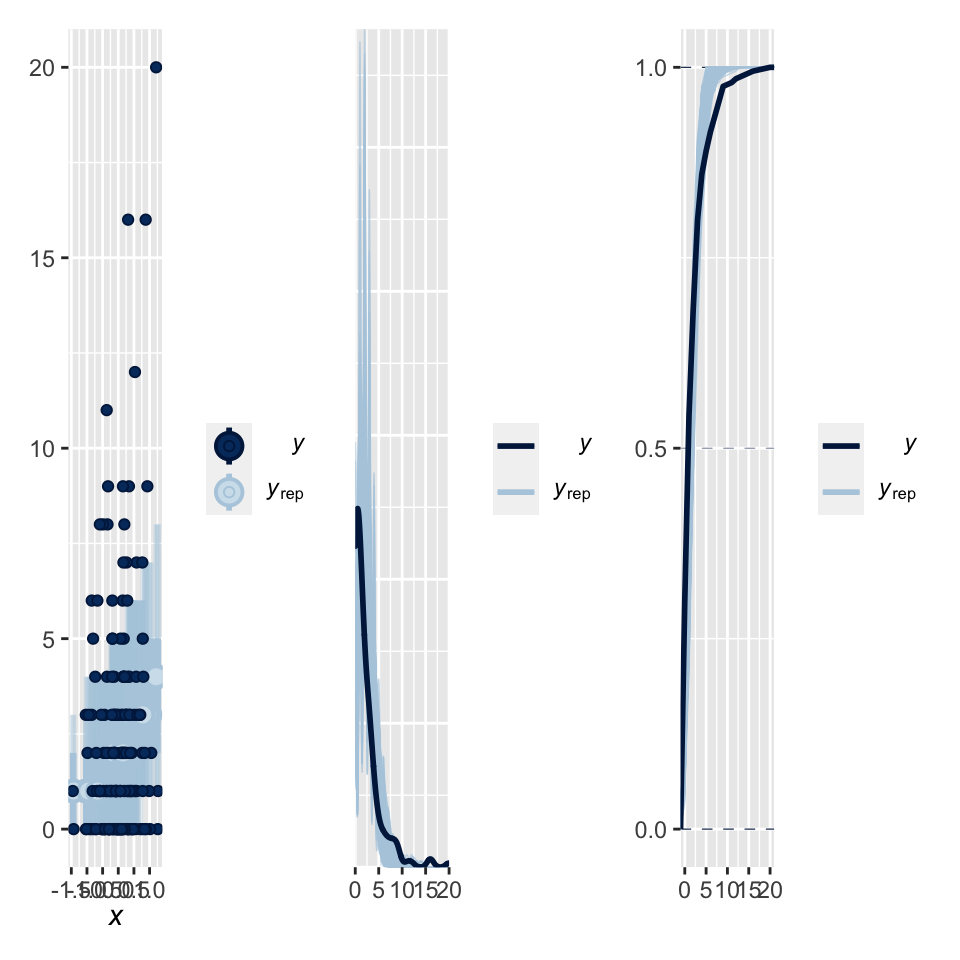
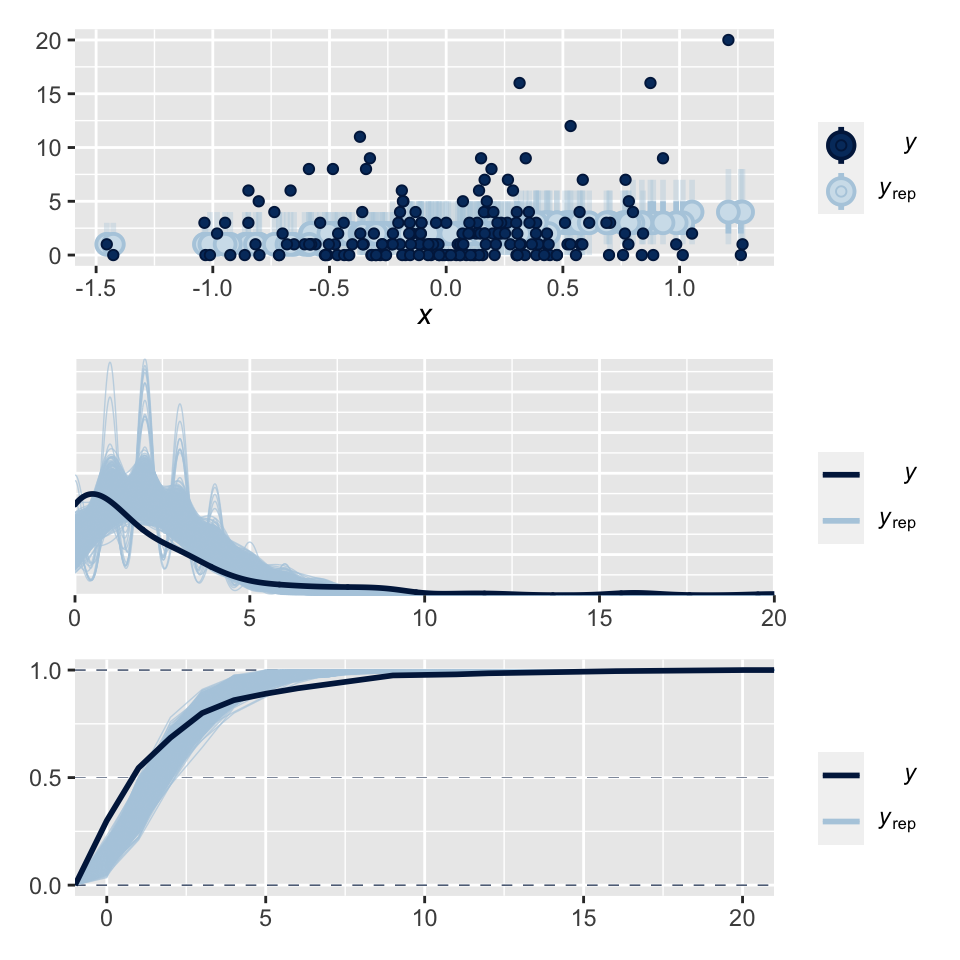
small edits and revision to figures

diff --git a/_book/day-5.html b/_book/day-5.html
@@ -494,7 +494,7 @@ code span.wa { color: #60a0b0; font-weight: bold; font-style: italic; } /* Warni
 <a class="sourceLine" id="cb110-20" data-line-number="20">) <span class="op">%&gt;%</span></a>
 <a class="sourceLine" id="cb110-21" data-line-number="21"><span class="st">    </span><span class="kw">add_surface</span>()</a></code></pre></div>
 <div id="htmlwidget-4a0c7c92b1066cbf0cb0" style="width:672px;height:480px;" class="plotly html-widget"></div>
-<script type="application/json" data-for="htmlwidget-4a0c7c92b1066cbf0cb0">{"x":{"visdat":{"15018757c7d4":["function () ","plotlyVisDat"]},"cur_data":"15018757c7d4","attrs":{"15018757c7d4":{"z":{},"alpha_stroke":1,"sizes":[10,100],"spans":[1,20],"type":"surface","inherit":true}},"layout":{"margin":{"b":40,"l":60,"t":25,"r":10},"scene":{"zaxis":{"title":"matrix(dat$y, sqrt(n), sqrt(n))"}},"hovermode":"closest","showlegend":false,"legend":{"yanchor":"top","y":0.5}},"source":"A","config":{"showSendToCloud":false},"data":[{"colorbar":{"title":"matrix(dat$y, sqrt(n), sqrt(n))","ticklen":2,"len":0.5,"lenmode":"fraction","y":1,"yanchor":"top"},"colorscale":[["0","rgba(68,1,84,1)"],["0.0416666666666667","rgba(70,19,97,1)"],["0.0833333333333334","rgba(72,32,111,1)"],["0.125","rgba(71,45,122,1)"],["0.166666666666667","rgba(68,58,128,1)"],["0.208333333333333","rgba(64,70,135,1)"],["0.25","rgba(60,82,138,1)"],["0.291666666666667","rgba(56,93,140,1)"],["0.333333333333333","rgba(49,104,142,1)"],["0.375","rgba(46,114,142,1)"],["0.416666666666667","rgba(42,123,142,1)"],["0.458333333333333","rgba(38,133,141,1)"],["0.5","rgba(37,144,140,1)"],["0.541666666666667","rgba(33,154,138,1)"],["0.583333333333333","rgba(39,164,133,1)"],["0.625","rgba(47,174,127,1)"],["0.666666666666667","rgba(53,183,121,1)"],["0.708333333333333","rgba(79,191,110,1)"],["0.75","rgba(98,199,98,1)"],["0.791666666666667","rgba(119,207,85,1)"],["0.833333333333333","rgba(147,214,70,1)"],["0.875","rgba(172,220,52,1)"],["0.916666666666667","rgba(199,225,42,1)"],["0.958333333333333","rgba(226,228,40,1)"],["1","rgba(253,231,37,1)"]],"showscale":true,"z":[[0.501416864425549,0.435895701528689,0.628313783883861,0.601419906989648,0.527125611387571,0.112301284546706,0.039417800703428,-0.141329188503778,0.144822963182104,0.0991911967806607,-0.0327578176913727,-0.359899360115732,-0.0408256360960041,-0.667323758250641,-0.734767494516772,-0.380230749275211,-0.956544347469656,-0.855788524202116,-1.18955711755157,-0.988557415617135],[0.133778899740329,0.194377309144107,0.508451864481736,0.468950123280326,0.762434611776857,0.616473002882308,-0.166314207146959,0.149223369209975,0.268193003851802,0.0315000667577065,-0.0533484237772597,-0.19039382697309,-0.146638835756711,-0.795102181579039,-0.886669033769243,-1.18143537603294,-1.26815939744814,-1.10661959451608,-1.48579734975519,-1.31857874205859],[-0.202377154430921,-0.192675900911298,0.234612562697054,0.45771047856723,0.0625218103851034,0.440663425848812,0.235146805818884,0.183555515939667,0.0908309117312426,0.0879240398447369,0.186087729174771,-0.0250075867171818,-0.217924214818889,-0.457269247535323,-0.649606552605628,-0.969894210537575,-1.09306384540198,-1.14195141749345,-1.11757176732986,-1.05679133535215],[-0.471002907403495,-0.691349967145548,-0.697097530718835,0.112514848821712,0.139482757765885,0.0554543145384691,-0.198868264113209,0.125388220614835,-0.39383576177551,-0.197882386293515,0.561369153542967,-0.11250862638185,-0.40164107550173,-0.517938520880583,-0.823940013294348,-1.12091451932549,-1.02713165667055,-0.826631182887981,-0.841910409674507,-1.54984932323355],[-0.763950706984163,-1.225820774775,-0.545750659141781,-0.0917669725384054,-0.0616656332558033,-0.541487481939438,-0.608113424737923,-0.0121532576720518,-0.379937387284547,-0.275117152289958,-0.156529763438439,-0.117377148425886,-0.367759655341919,-0.536254020195987,-0.379290338951309,-0.796057672955533,-0.82201194318895,-0.88774178556814,-0.657027417097038,-1.01763167370178],[-0.79811521718663,-0.143439712771955,-0.294196645686776,-0.545122719925802,-0.206681144490986,-0.686096958449867,-0.824834853392159,-0.818662210568308,-0.12449497561367,-0.890726570737791,-0.392063170646249,-0.264246486881905,-0.183924981912508,-0.501442892468294,-0.367200108508801,-0.355649030362057,-0.698058826414773,-0.934897260395489,-0.412273103910142,-0.211500149134743],[-0.501144827299452,-0.143551781401898,-0.177619118282621,-0.186880309210365,-0.259239990744856,-0.397856795537658,-0.400937245108771,-0.445657772040836,-0.181109953998169,-0.12452686256425,0.392666709934574,0.138564688125174,-0.109177350010491,-0.318463690490814,-0.368845333097763,-0.411354194748707,-0.605001484861866,-0.692764933653365,-0.595848298441895,-0.0303647377233202],[-0.632208960609581,-0.338493379673163,-0.111209179110812,-0.325964764541662,0.0363999179761221,-0.504947202680523,-0.369206887877914,-0.376604729687348,-0.446566844277522,-0.351276226856319,0.0273044333679807,0.0198330786641969,-0.100470137764927,-0.205878299054973,-0.681066904160156,-0.641472475602323,-0.689936117354089,-1.0016835568969,-0.509118072164383,-0.291312059782943],[-0.960295111051469,-0.896999687316198,-0.756044427374541,-0.443501213283359,-0.579799679718357,-0.511577978672959,-0.647880097372721,-0.330775190075035,-0.363175684963475,-0.416107582815023,-0.370302451960173,-0.150888361166762,-0.141344921229398,-0.721816588992475,-0.315688777006519,-0.672449450941569,-1.37604445689556,-1.29722104268378,-0.648862131841717,-0.437896752790126],[-1.32853456827554,-1.03134776389011,-1.0511653246759,-0.80068413147394,-1.10592701377484,-0.632889322113555,-0.390657532748361,0.275274742718667,-0.132003430901936,-0.512618815794119,-0.557044820376563,-0.600283009764232,-0.669720669818676,-0.882781786132061,-0.562397377026402,-0.502232635062457,-1.07526718687346,-1.00949350230528,-1.03923542220943,-0.527572930514201],[-1.02824968846789,-1.21211941860079,-1.19477753816763,-0.777501602713323,-0.817118240190682,-1.16048353544471,-0.789509424911934,-0.521086134680167,-0.500510017753925,-0.484611841944311,-0.445948921762354,-0.773212058114287,-0.586645127199805,-0.562483067746857,-0.771815371188746,-0.888539846642034,-1.01594082678713,-1.17387828107106,-1.26659529611471,-0.493458322378053],[-0.668950991190452,-1.28062702165923,-1.19348268378045,-0.88373895377825,-1.47345431142704,-1.29789615566948,-1.04617601099074,-0.811113656873884,-0.551907299935932,0.0322352967349497,-0.482470337352678,-0.179288748874953,-0.800900309839142,-0.990176300299333,-0.708295340567449,-0.922964831631941,-0.963647317334975,-1.02058078353483,-0.889074830071327,-0.61241076090348],[-1.04875228974718,-1.22163243345006,-1.19228900219844,-1.02546075751928,-1.53593753221427,-1.30630195552371,-1.33443105881039,-0.845275822614931,-0.647392861466749,-0.657562283889751,-0.311207200449246,-1.14560367473708,-1.08844287540448,-0.594597278070913,-1.01264148438757,-1.2018017373756,-1.17095063523869,-0.854325386810605,-0.637094473704461,-0.367097395181111],[-1.16118107448635,-1.43029743729191,-1.39859524981186,-1.58455303629277,-1.72544972140306,-1.06716199955956,-1.04015455732812,-0.904607940201557,-0.57864618830925,-0.433334349585258,-0.445169055347513,-1.07402710472363,-0.913381815905744,-1.2876175194082,-1.3230717746779,-1.57155676517318,-1.62274354401459,-0.664026511275845,-0.574724476510864,-0.845404050452273],[-0.821393372344756,-1.59703105189841,-1.91364637393686,-1.90720496755767,-1.84137158222431,-1.34448750489332,-1.23801719175093,-1.04915078325095,-0.777364839194881,-0.546475125996158,-0.318260039084443,-1.13500663037331,-1.27021907222464,-0.875548762955606,-0.76667935081689,-1.0877858170205,-0.988748806906799,-0.514966304348554,-0.804384069364708,-1.04578239022407],[-1.18679344863807,-1.42296541615495,-1.94588121803796,-2.12258776771557,-1.57160160397041,-1.51095900917986,-1.1533752005967,-1.59113030125909,-0.978637585181168,-0.272756938036958,-0.638213237690014,-0.967868498459082,-1.53116904164353,-1.54664728262368,-1.61140859581914,-1.30330199374125,-0.804270680942275,-0.575515866730708,-0.403735417038001,-0.879008908937024],[-1.27927438632742,-1.46501725061535,-1.69090334919374,-1.71303198822079,-1.32546330292342,-1.44247285690439,-1.30128175493719,-1.63203929610833,-1.06270083810043,-0.259187718365234,-0.762416888851196,-1.42682220170483,-1.38104865747077,-1.48109778833097,-1.56985773473161,-1.513167168223,-1.33109345060029,-0.951184320369449,-0.720484956966239,-0.918482971506119],[-0.921397847503572,-1.23435916825674,-1.12527262049609,-1.07823449844754,-1.17253179039786,-1.24514543874772,-1.39962875113255,-1.38136673664197,-1.66858895017746,-0.759242459417572,-0.807262768908282,-1.41495110231753,-1.3225595049599,-1.46508361344786,-1.24742401134545,-0.935504011595734,-1.32232841506925,-1.2047192415354,-0.987958925887501,-1.18211288041872],[-0.991143633524429,-0.302988956813851,-0.633087223888305,-0.922043368186715,-1.04227012820005,-1.0279698919459,-1.62741424818933,-1.69208435953631,-1.32596122557027,-1.22851009804543,-1.1548875159301,-1.07634948308402,-1.54518636449074,-1.17807894387443,-1.13519038758066,-1.03877887696317,-1.07704468547692,-0.839962496660722,-1.06330411232877,-1.24001406938555],[-0.987711248523154,-0.865583576403856,-0.547850109228499,-1.10813251236338,-1.00383211770862,-0.987109562801653,-1.65686895584208,-1.66565673634245,-1.53867289629175,-1.04130115317855,-1.2448859290014,-1.17546124939656,-1.0921222197595,-1.23521862046823,-1.15046177421782,-1.28755337574018,-1.2254401664102,-1.30021296372609,-1.222278218157,-0.930559695187917]],"type":"surface","frame":null}],"highlight":{"on":"plotly_click","persistent":false,"dynamic":false,"selectize":false,"opacityDim":0.2,"selected":{"opacity":1},"debounce":0},"shinyEvents":["plotly_hover","plotly_click","plotly_selected","plotly_relayout","plotly_brushed","plotly_brushing","plotly_clickannotation","plotly_doubleclick","plotly_deselect","plotly_afterplot","plotly_sunburstclick"],"base_url":"https://plot.ly"},"evals":[],"jsHooks":[]}</script>
+<script type="application/json" data-for="htmlwidget-4a0c7c92b1066cbf0cb0">{"x":{"visdat":{"152be284f43f0":["function () ","plotlyVisDat"]},"cur_data":"152be284f43f0","attrs":{"152be284f43f0":{"z":{},"alpha_stroke":1,"sizes":[10,100],"spans":[1,20],"type":"surface","inherit":true}},"layout":{"margin":{"b":40,"l":60,"t":25,"r":10},"scene":{"zaxis":{"title":"matrix(dat$y, sqrt(n), sqrt(n))"}},"hovermode":"closest","showlegend":false,"legend":{"yanchor":"top","y":0.5}},"source":"A","config":{"showSendToCloud":false},"data":[{"colorbar":{"title":"matrix(dat$y, sqrt(n), sqrt(n))","ticklen":2,"len":0.5,"lenmode":"fraction","y":1,"yanchor":"top"},"colorscale":[["0","rgba(68,1,84,1)"],["0.0416666666666667","rgba(70,19,97,1)"],["0.0833333333333334","rgba(72,32,111,1)"],["0.125","rgba(71,45,122,1)"],["0.166666666666667","rgba(68,58,128,1)"],["0.208333333333333","rgba(64,70,135,1)"],["0.25","rgba(60,82,138,1)"],["0.291666666666667","rgba(56,93,140,1)"],["0.333333333333333","rgba(49,104,142,1)"],["0.375","rgba(46,114,142,1)"],["0.416666666666667","rgba(42,123,142,1)"],["0.458333333333333","rgba(38,133,141,1)"],["0.5","rgba(37,144,140,1)"],["0.541666666666667","rgba(33,154,138,1)"],["0.583333333333333","rgba(39,164,133,1)"],["0.625","rgba(47,174,127,1)"],["0.666666666666667","rgba(53,183,121,1)"],["0.708333333333333","rgba(79,191,110,1)"],["0.75","rgba(98,199,98,1)"],["0.791666666666667","rgba(119,207,85,1)"],["0.833333333333333","rgba(147,214,70,1)"],["0.875","rgba(172,220,52,1)"],["0.916666666666667","rgba(199,225,42,1)"],["0.958333333333333","rgba(226,228,40,1)"],["1","rgba(253,231,37,1)"]],"showscale":true,"z":[[0.501416864425549,0.435895701528689,0.628313783883861,0.601419906989648,0.527125611387571,0.112301284546706,0.039417800703428,-0.141329188503778,0.144822963182104,0.0991911967806607,-0.0327578176913727,-0.359899360115732,-0.0408256360960041,-0.667323758250641,-0.734767494516772,-0.380230749275211,-0.956544347469656,-0.855788524202116,-1.18955711755157,-0.988557415617135],[0.133778899740329,0.194377309144107,0.508451864481736,0.468950123280326,0.762434611776857,0.616473002882308,-0.166314207146959,0.149223369209975,0.268193003851802,0.0315000667577065,-0.0533484237772597,-0.19039382697309,-0.146638835756711,-0.795102181579039,-0.886669033769243,-1.18143537603294,-1.26815939744814,-1.10661959451608,-1.48579734975519,-1.31857874205859],[-0.202377154430921,-0.192675900911298,0.234612562697054,0.45771047856723,0.0625218103851034,0.440663425848812,0.235146805818884,0.183555515939667,0.0908309117312426,0.0879240398447369,0.186087729174771,-0.0250075867171818,-0.217924214818889,-0.457269247535323,-0.649606552605628,-0.969894210537575,-1.09306384540198,-1.14195141749345,-1.11757176732986,-1.05679133535215],[-0.471002907403495,-0.691349967145548,-0.697097530718835,0.112514848821712,0.139482757765885,0.0554543145384691,-0.198868264113209,0.125388220614835,-0.39383576177551,-0.197882386293515,0.561369153542967,-0.11250862638185,-0.40164107550173,-0.517938520880583,-0.823940013294348,-1.12091451932549,-1.02713165667055,-0.826631182887981,-0.841910409674507,-1.54984932323355],[-0.763950706984163,-1.225820774775,-0.545750659141781,-0.0917669725384054,-0.0616656332558033,-0.541487481939438,-0.608113424737923,-0.0121532576720518,-0.379937387284547,-0.275117152289958,-0.156529763438439,-0.117377148425886,-0.367759655341919,-0.536254020195987,-0.379290338951309,-0.796057672955533,-0.82201194318895,-0.88774178556814,-0.657027417097038,-1.01763167370178],[-0.79811521718663,-0.143439712771955,-0.294196645686776,-0.545122719925802,-0.206681144490986,-0.686096958449867,-0.824834853392159,-0.818662210568308,-0.12449497561367,-0.890726570737791,-0.392063170646249,-0.264246486881905,-0.183924981912508,-0.501442892468294,-0.367200108508801,-0.355649030362057,-0.698058826414773,-0.934897260395489,-0.412273103910142,-0.211500149134743],[-0.501144827299452,-0.143551781401898,-0.177619118282621,-0.186880309210365,-0.259239990744856,-0.397856795537658,-0.400937245108771,-0.445657772040836,-0.181109953998169,-0.12452686256425,0.392666709934574,0.138564688125174,-0.109177350010491,-0.318463690490814,-0.368845333097763,-0.411354194748707,-0.605001484861866,-0.692764933653365,-0.595848298441895,-0.0303647377233202],[-0.632208960609581,-0.338493379673163,-0.111209179110812,-0.325964764541662,0.0363999179761221,-0.504947202680523,-0.369206887877914,-0.376604729687348,-0.446566844277522,-0.351276226856319,0.0273044333679807,0.0198330786641969,-0.100470137764927,-0.205878299054973,-0.681066904160156,-0.641472475602323,-0.689936117354089,-1.0016835568969,-0.509118072164383,-0.291312059782943],[-0.960295111051469,-0.896999687316198,-0.756044427374541,-0.443501213283359,-0.579799679718357,-0.511577978672959,-0.647880097372721,-0.330775190075035,-0.363175684963475,-0.416107582815023,-0.370302451960173,-0.150888361166762,-0.141344921229398,-0.721816588992475,-0.315688777006519,-0.672449450941569,-1.37604445689556,-1.29722104268378,-0.648862131841717,-0.437896752790126],[-1.32853456827554,-1.03134776389011,-1.0511653246759,-0.80068413147394,-1.10592701377484,-0.632889322113555,-0.390657532748361,0.275274742718667,-0.132003430901936,-0.512618815794119,-0.557044820376563,-0.600283009764232,-0.669720669818676,-0.882781786132061,-0.562397377026402,-0.502232635062457,-1.07526718687346,-1.00949350230528,-1.03923542220943,-0.527572930514201],[-1.02824968846789,-1.21211941860079,-1.19477753816763,-0.777501602713323,-0.817118240190682,-1.16048353544471,-0.789509424911934,-0.521086134680167,-0.500510017753925,-0.484611841944311,-0.445948921762354,-0.773212058114287,-0.586645127199805,-0.562483067746857,-0.771815371188746,-0.888539846642034,-1.01594082678713,-1.17387828107106,-1.26659529611471,-0.493458322378053],[-0.668950991190452,-1.28062702165923,-1.19348268378045,-0.88373895377825,-1.47345431142704,-1.29789615566948,-1.04617601099074,-0.811113656873884,-0.551907299935932,0.0322352967349497,-0.482470337352678,-0.179288748874953,-0.800900309839142,-0.990176300299333,-0.708295340567449,-0.922964831631941,-0.963647317334975,-1.02058078353483,-0.889074830071327,-0.61241076090348],[-1.04875228974718,-1.22163243345006,-1.19228900219844,-1.02546075751928,-1.53593753221427,-1.30630195552371,-1.33443105881039,-0.845275822614931,-0.647392861466749,-0.657562283889751,-0.311207200449246,-1.14560367473708,-1.08844287540448,-0.594597278070913,-1.01264148438757,-1.2018017373756,-1.17095063523869,-0.854325386810605,-0.637094473704461,-0.367097395181111],[-1.16118107448635,-1.43029743729191,-1.39859524981186,-1.58455303629277,-1.72544972140306,-1.06716199955956,-1.04015455732812,-0.904607940201557,-0.57864618830925,-0.433334349585258,-0.445169055347513,-1.07402710472363,-0.913381815905744,-1.2876175194082,-1.3230717746779,-1.57155676517318,-1.62274354401459,-0.664026511275845,-0.574724476510864,-0.845404050452273],[-0.821393372344756,-1.59703105189841,-1.91364637393686,-1.90720496755767,-1.84137158222431,-1.34448750489332,-1.23801719175093,-1.04915078325095,-0.777364839194881,-0.546475125996158,-0.318260039084443,-1.13500663037331,-1.27021907222464,-0.875548762955606,-0.76667935081689,-1.0877858170205,-0.988748806906799,-0.514966304348554,-0.804384069364708,-1.04578239022407],[-1.18679344863807,-1.42296541615495,-1.94588121803796,-2.12258776771557,-1.57160160397041,-1.51095900917986,-1.1533752005967,-1.59113030125909,-0.978637585181168,-0.272756938036958,-0.638213237690014,-0.967868498459082,-1.53116904164353,-1.54664728262368,-1.61140859581914,-1.30330199374125,-0.804270680942275,-0.575515866730708,-0.403735417038001,-0.879008908937024],[-1.27927438632742,-1.46501725061535,-1.69090334919374,-1.71303198822079,-1.32546330292342,-1.44247285690439,-1.30128175493719,-1.63203929610833,-1.06270083810043,-0.259187718365234,-0.762416888851196,-1.42682220170483,-1.38104865747077,-1.48109778833097,-1.56985773473161,-1.513167168223,-1.33109345060029,-0.951184320369449,-0.720484956966239,-0.918482971506119],[-0.921397847503572,-1.23435916825674,-1.12527262049609,-1.07823449844754,-1.17253179039786,-1.24514543874772,-1.39962875113255,-1.38136673664197,-1.66858895017746,-0.759242459417572,-0.807262768908282,-1.41495110231753,-1.3225595049599,-1.46508361344786,-1.24742401134545,-0.935504011595734,-1.32232841506925,-1.2047192415354,-0.987958925887501,-1.18211288041872],[-0.991143633524429,-0.302988956813851,-0.633087223888305,-0.922043368186715,-1.04227012820005,-1.0279698919459,-1.62741424818933,-1.69208435953631,-1.32596122557027,-1.22851009804543,-1.1548875159301,-1.07634948308402,-1.54518636449074,-1.17807894387443,-1.13519038758066,-1.03877887696317,-1.07704468547692,-0.839962496660722,-1.06330411232877,-1.24001406938555],[-0.987711248523154,-0.865583576403856,-0.547850109228499,-1.10813251236338,-1.00383211770862,-0.987109562801653,-1.65686895584208,-1.66565673634245,-1.53867289629175,-1.04130115317855,-1.2448859290014,-1.17546124939656,-1.0921222197595,-1.23521862046823,-1.15046177421782,-1.28755337574018,-1.2254401664102,-1.30021296372609,-1.222278218157,-0.930559695187917]],"type":"surface","frame":null}],"highlight":{"on":"plotly_click","persistent":false,"dynamic":false,"selectize":false,"opacityDim":0.2,"selected":{"opacity":1},"debounce":0},"shinyEvents":["plotly_hover","plotly_click","plotly_selected","plotly_relayout","plotly_brushed","plotly_brushing","plotly_clickannotation","plotly_doubleclick","plotly_deselect","plotly_afterplot","plotly_sunburstclick"],"base_url":"https://plot.ly"},"evals":[],"jsHooks":[]}</script>
 <div id="gaussian-processes" class="section level3">
 <h3><span class="header-section-number">5.2.1</span> Gaussian processes</h3>
 <ul>

diff --git a/_book/day-32.html b/_book/day-32.html
@@ -467,14 +467,14 @@ code span.wa { color: #60a0b0; font-weight: bold; font-style: italic; } /* Warni
 <li><p>Recall the Gaussian model:</p></li>
 </ul>
 <p><span class="math display">\[\begin{align*}
-y(\mathbf{s}) | \eta(\mathbf{s}) &amp; \stackrel{iid}{\sim} N(\mathbf{X}(\mathbf{s} \boldsymbol{\beta} + \eta(\mathbf{s}), \sigma^2) \\
+y(\mathbf{s}) | \eta(\mathbf{s}) &amp; \stackrel{iid}{\sim} N(\mathbf{X}(\mathbf{s}) \boldsymbol{\beta} + \eta(\mathbf{s}), \sigma^2) \\
 \boldsymbol{\eta} = (\eta(\mathbf{s}_1), \ldots, \eta(\mathbf{s}_n))&#39; &amp; \sim N(\mathbf{0}, \boldsymbol{\Sigma}),
 \end{align*}\]</span></p>
 <p>where <span class="math inline">\(\boldsymbol{\Sigma}\)</span> is the covariance matrix for the covariance function <span class="math inline">\(\tau^2 \mathbf{C}(\| \mathbf{s} - \mathbf{s}&#39; \|)\)</span>.</p>
 <ul>
 <li><p>If we integrate out the random effect <span class="math inline">\(\boldsymbol{\eta}\)</span> we have:</p></li>
 <li><span class="math inline">\(y(\mathbf{s})\)</span> is a GP</li>
-<li>$E( y (  ) ) = () </li>
+<li><span class="math inline">\(E\left( y \left( \mathbf{s} \right) \right) = \mathbf{X}(\mathbf{s}) \boldsymbol{\beta}\)</span></li>
 <li><p><span class="math inline">\(Cov(y(\mathbf{s}), y(\mathbf{s}&#39;)) = \begin{cases} \sigma^2 + \tau^2 &amp; h = 0 \\ \tau^2 C (h) &amp; h &gt; 0 \end{cases}\)</span></p></li>
 <li><p>Therefore, given the random effects, the observations are independent, but marginally, the observations are dependent.</p></li>
 <li><p>Instead, for spatial GLMs we add latent Gaussian random effects to the generalized linear model</p></li>
@@ -500,7 +500,7 @@ g \left( E \left( y_i \right) \right) &amp; = \mathbf{X}_i \boldsymbol{\beta}
 <li><p><span class="math inline">\(E \left( y_i \right) = p_i\)</span></p></li>
 <li><p>the link function is <span class="math inline">\(p_i = logit \left( E \left( y_i \right) \right) = logit \left( \operatorname{Prob} \left( y_i = 1 \right) \right) = \mathbf{X}_i \boldsymbol{\beta}\)</span></p></li>
 <li><p>the logit function is <span class="math inline">\(logit(z) = \frac{e^z}{1 + e^z}\)</span></p></li>
-<li>sometimes a probit link function is used <span class="math inline">\(p_i probit \left( E \left( y_i \right) \right) = probit \left( \operatorname{Prob} \left( y_i = 1 \right) \right) = \mathbf{X}_i \boldsymbol{\beta}\)</span><br />
+<li>sometimes a probit link function is used <span class="math inline">\(p_i = probit \left( E \left( y_i \right) \right) = probit \left( \operatorname{Prob} \left( y_i = 1 \right) \right) = \mathbf{X}_i \boldsymbol{\beta}\)</span><br />
 </li>
 <li><p>the probit function is <span class="math inline">\(probit(z) = \Phi(z)\)</span> where <span class="math inline">\(\Phi()\)</span> is the standard normal CDF</p></li>
 </ul>
@@ -610,7 +610,7 @@ generated quantities {
 <div class="sourceCode" id="cb489"><pre class="sourceCode r"><code class="sourceCode r"><a class="sourceLine" id="cb489-1" data-line-number="1">p1 &lt;-<span class="st"> </span><span class="kw">ppc_intervals</span>(y, y_rep, <span class="dt">x =</span> X[, <span class="dv">2</span>])</a>
 <a class="sourceLine" id="cb489-2" data-line-number="2">p2 &lt;-<span class="st"> </span><span class="kw">ppc_dens_overlay</span>(y, y_rep)</a>
 <a class="sourceLine" id="cb489-3" data-line-number="3">p3 &lt;-<span class="st"> </span><span class="kw">ppc_ecdf_overlay</span>(y, y_rep)</a>
-<a class="sourceLine" id="cb489-4" data-line-number="4">p1 <span class="op">+</span><span class="st"> </span>p2 <span class="op">+</span><span class="st"> </span>p3</a></code></pre></div>
+<a class="sourceLine" id="cb489-4" data-line-number="4">p1 <span class="op">/</span><span class="st"> </span>p2 <span class="op">/</span><span class="st"> </span>p3</a></code></pre></div>
 <p><img src="STAT-5413_files/figure-html/unnamed-chunk-277-1.png" width="480" style="display: block; margin: auto;" /></p>
 </div>
 <div id="binary-logistic-regression-in-nimble" class="section level4">
@@ -785,8 +785,8 @@ generated quantities {
 <li><p>the link function is <span class="math inline">\(\log( \lambda_i) = log \left( E \left( y_i \right) \right) = \mathbf{X}_i \boldsymbol{\beta}\)</span></p></li>
 <li><p>Marginal distriubtion of <span class="math inline">\(y(\mathbf{s})\)</span> for Poisson data</p></li>
 <li><p><span class="math inline">\([y(\mathbf{s})] = \int \operatorname{Poisson}\left( y(\mathbf{s}) | \boldsymbol{\beta}, \boldsymbol{\eta} \right) \operatorname{N} \left( \mathbf{0}, \boldsymbol{\Sigma} \right) d\, \boldsymbol{\eta}\)</span> = ???</p></li>
-<li><p><span class="math inline">\(E\left( y(\mathbf{s}) \right) = E \left( E\left( y(\mathbf{s}) \right) \middle| \boldsymbol{\eta} \right) = E \left( e^{\mathbf{X}\(\mathbf{s}) \boldsymbol{\beta} + \boldsymbol{\eta}(\mathbf{s}) } \right) = e^{\mathbf{X}\(\mathbf{s}) \boldsymbol{\beta}} E \left( e^{\boldsymbol{\eta}(\mathbf{s}) \right) = e^{\mathbf{X}\(\mathbf{s}) \boldsymbol{\beta}} e^{\tau^2 / } \right)\)</span></p></li>
-<li><p><span class="math inline">\(Var \left( y(\mathbf{s}) \right) = Var \left( E \left( y(\mathbf{s}) \right) \middle| \boldsymbol{\eta} \right) + E \left( Var \left( y(\mathbf{s}) \right) \right) \middle| \boldsymbol{\eta} \right) = Var \left( e^{\mathbf{X}\(\mathbf{s}) \boldsymbol{\beta} + \boldsymbol{\eta}(\mathbf{s}) \right) + E \left( e^{\mathbf{X}\(\mathbf{s}) \boldsymbol{\beta} + \boldsymbol{\eta}(\mathbf{s}) } \right) = Var \left( e^{\mathbf{X}\(\mathbf{s}) \boldsymbol{\beta} + \boldsymbol{\eta}(\mathbf{s}) \right) + e^{\mathbf{X}\(\mathbf{s}) \boldsymbol{\beta} + \tau^2 / 2} \right) &gt; e^{\mathbf{X}\(\mathbf{s}) \boldsymbol{\beta} }\)</span></p></li>
+<li><p><span class="math inline">\(E\left( y(\mathbf{s}) \right) = E \left( E\left( y(\mathbf{s}) \right) \middle| \boldsymbol{\eta} \right) = E \left( e^{\mathbf{X}(\mathbf{s}) \boldsymbol{\beta} + \boldsymbol{\eta}(\mathbf{s}) } \right) = e^{\mathbf{X}(\mathbf{s}) \boldsymbol{\beta}} E \left( e^{\boldsymbol{\eta}(\mathbf{s})} \right) = e^{\mathbf{X}(\mathbf{s}) \boldsymbol{\beta}} e^{\tau^2}\)</span></p></li>
+<li><p><span class="math inline">\(Var \left( y(\mathbf{s}) \right) = Var \left( E \left( y(\mathbf{s}) \right) \middle| \boldsymbol{\eta} \right) + E \left( Var \left( y(\mathbf{s}) \right) \middle| \boldsymbol{\eta} \right) = Var \left( e^{\mathbf{X}(\mathbf{s}) \boldsymbol{\beta} + \boldsymbol{\eta}(\mathbf{s}) } \right) + E \left( e^{\mathbf{X}(\mathbf{s}) \boldsymbol{\beta} + \boldsymbol{\eta}(\mathbf{s}) } \right) = Var \left( e^{\mathbf{X}(\mathbf{s}) \boldsymbol{\beta} + \boldsymbol{\eta}(\mathbf{s}) } \right) + e^{\mathbf{X}(\mathbf{s}) \boldsymbol{\beta} + \tau^2 / 2} &gt; e^{\mathbf{X}(\mathbf{s}) \boldsymbol{\beta} }\)</span></p></li>
 <li><p>overdispersed relative to the non-spatial Poisson</p></li>
 <li><p><span class="math inline">\(Cov(y(\mathbf{s}), y(\mathbf{s}&#39;))\)</span> is more complicated</p></li>
 </ul>
@@ -885,7 +885,7 @@ generated quantities {
 <div class="sourceCode" id="cb535"><pre class="sourceCode r"><code class="sourceCode r"><a class="sourceLine" id="cb535-1" data-line-number="1">p1 &lt;-<span class="st"> </span><span class="kw">ppc_intervals</span>(y, y_rep, <span class="dt">x =</span> X[, <span class="dv">2</span>])</a>
 <a class="sourceLine" id="cb535-2" data-line-number="2">p2 &lt;-<span class="st"> </span><span class="kw">ppc_dens_overlay</span>(y, y_rep)</a>
 <a class="sourceLine" id="cb535-3" data-line-number="3">p3 &lt;-<span class="st"> </span><span class="kw">ppc_ecdf_overlay</span>(y, y_rep)</a>
-<a class="sourceLine" id="cb535-4" data-line-number="4">p1 <span class="op">+</span><span class="st"> </span>p2 <span class="op">+</span><span class="st"> </span>p3</a></code></pre></div>
+<a class="sourceLine" id="cb535-4" data-line-number="4">p1 <span class="op">/</span><span class="st"> </span>p2 <span class="op">/</span><span class="st"> </span>p3</a></code></pre></div>
 <p><img src="STAT-5413_files/figure-html/unnamed-chunk-292-1.png" width="480" style="display: block; margin: auto;" /></p>
 </div>
 <div id="poisson-regression-in-nimble" class="section level4">
@@ -1211,7 +1211,7 @@ generated quantities {
 <div class="sourceCode" id="cb563"><pre class="sourceCode r"><code class="sourceCode r"><a class="sourceLine" id="cb563-1" data-line-number="1">p1 &lt;-<span class="st"> </span><span class="kw">ppc_intervals</span>(y, y_rep, <span class="dt">x =</span> X[, <span class="dv">2</span>])</a>
 <a class="sourceLine" id="cb563-2" data-line-number="2">p2 &lt;-<span class="st"> </span><span class="kw">ppc_dens_overlay</span>(y, y_rep)</a>
 <a class="sourceLine" id="cb563-3" data-line-number="3">p3 &lt;-<span class="st"> </span><span class="kw">ppc_ecdf_overlay</span>(y, y_rep)</a>
-<a class="sourceLine" id="cb563-4" data-line-number="4">p1 <span class="op">+</span><span class="st"> </span>p2 <span class="op">+</span><span class="st"> </span>p3</a></code></pre></div>
+<a class="sourceLine" id="cb563-4" data-line-number="4">p1 <span class="op">/</span><span class="st"> </span>p2 <span class="op">/</span><span class="st"> </span>p3</a></code></pre></div>
 <p><img src="STAT-5413_files/figure-html/unnamed-chunk-304-1.png" width="480" style="display: block; margin: auto;" /></p>
 </div>
 <div id="what-if-we-fit-a-non-spatial-regression" class="section level4">
@@ -1252,7 +1252,7 @@ generated quantities {
 <div class="sourceCode" id="cb569"><pre class="sourceCode r"><code class="sourceCode r"><a class="sourceLine" id="cb569-1" data-line-number="1">p1 &lt;-<span class="st"> </span><span class="kw">ppc_intervals</span>(y, y_rep, <span class="dt">x =</span> X[, <span class="dv">2</span>])</a>
 <a class="sourceLine" id="cb569-2" data-line-number="2">p2 &lt;-<span class="st"> </span><span class="kw">ppc_dens_overlay</span>(y, y_rep)</a>
 <a class="sourceLine" id="cb569-3" data-line-number="3">p3 &lt;-<span class="st"> </span><span class="kw">ppc_ecdf_overlay</span>(y, y_rep)</a>
-<a class="sourceLine" id="cb569-4" data-line-number="4">p1 <span class="op">+</span><span class="st"> </span>p2 <span class="op">+</span><span class="st"> </span>p3</a></code></pre></div>
+<a class="sourceLine" id="cb569-4" data-line-number="4">p1 <span class="op">/</span><span class="st"> </span>p2 <span class="op">/</span><span class="st"> </span>p3</a></code></pre></div>
 <p><img src="STAT-5413_files/figure-html/unnamed-chunk-308-1.png" width="480" style="display: block; margin: auto;" /></p>
 <!-- #### Spatial logistic regression in INLA -->
 <!-- - Integrated Nested Laplace Approximation -->
@@ -1624,7 +1624,7 @@ generated quantities {
 <div class="sourceCode" id="cb581"><pre class="sourceCode r"><code class="sourceCode r"><a class="sourceLine" id="cb581-1" data-line-number="1">p1 &lt;-<span class="st"> </span><span class="kw">ppc_intervals</span>(y, y_rep, <span class="dt">x =</span> X[, <span class="dv">2</span>])</a>
 <a class="sourceLine" id="cb581-2" data-line-number="2">p2 &lt;-<span class="st"> </span><span class="kw">ppc_dens_overlay</span>(y, y_rep)</a>
 <a class="sourceLine" id="cb581-3" data-line-number="3">p3 &lt;-<span class="st"> </span><span class="kw">ppc_ecdf_overlay</span>(y, y_rep)</a>
-<a class="sourceLine" id="cb581-4" data-line-number="4">p1 <span class="op">+</span><span class="st"> </span>p2 <span class="op">+</span><span class="st"> </span>p3</a></code></pre></div>
+<a class="sourceLine" id="cb581-4" data-line-number="4">p1 <span class="op">/</span><span class="st"> </span>p2 <span class="op">/</span><span class="st"> </span>p3</a></code></pre></div>
 <p><img src="STAT-5413_files/figure-html/unnamed-chunk-317-1.png" width="480" style="display: block; margin: auto;" /></p>
 <div id="what-if-we-fit-a-non-spatial-regression-1" class="section level4">
 <h4><span class="header-section-number">32.2.6.1</span> What if we fit a non-spatial regression?</h4>
@@ -1663,7 +1663,7 @@ generated quantities {
 <div class="sourceCode" id="cb586"><pre class="sourceCode r"><code class="sourceCode r"><a class="sourceLine" id="cb586-1" data-line-number="1">p1 &lt;-<span class="st"> </span><span class="kw">ppc_intervals</span>(y, y_rep, <span class="dt">x =</span> X[, <span class="dv">2</span>])</a>
 <a class="sourceLine" id="cb586-2" data-line-number="2">p2 &lt;-<span class="st"> </span><span class="kw">ppc_dens_overlay</span>(y, y_rep)</a>
 <a class="sourceLine" id="cb586-3" data-line-number="3">p3 &lt;-<span class="st"> </span><span class="kw">ppc_ecdf_overlay</span>(y, y_rep)</a>
-<a class="sourceLine" id="cb586-4" data-line-number="4">p1 <span class="op">+</span><span class="st"> </span>p2 <span class="op">+</span><span class="st"> </span>p3</a></code></pre></div>
+<a class="sourceLine" id="cb586-4" data-line-number="4">p1 <span class="op">/</span><span class="st"> </span>p2 <span class="op">/</span><span class="st"> </span>p3</a></code></pre></div>
 <p><img src="STAT-5413_files/figure-html/unnamed-chunk-321-1.png" width="480" style="display: block; margin: auto;" /></p>
 </div>
 <div id="spatial-poisson-regression-in-nimble" class="section level4">
